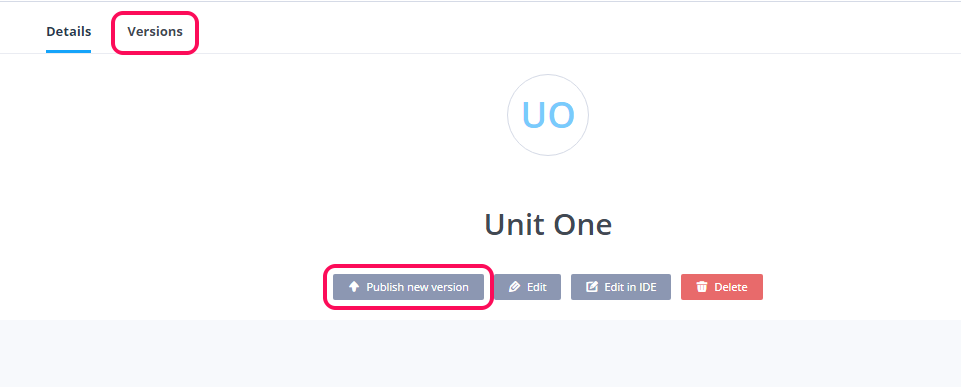
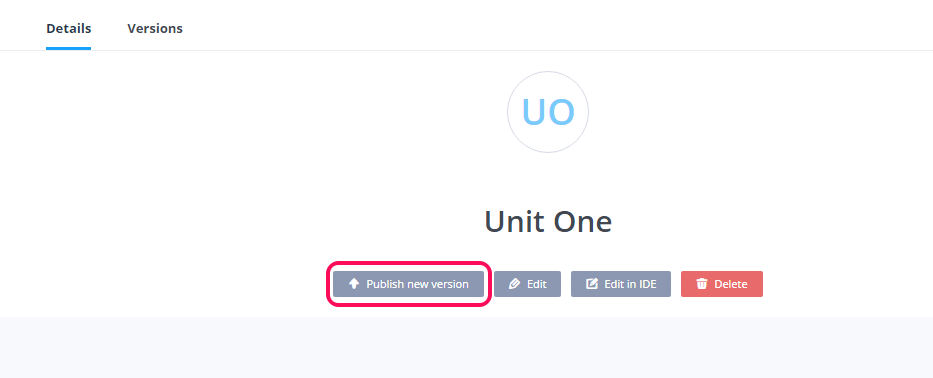
update versions

diff --git a/source/docs/content/publish/unit-add.html.md b/source/docs/content/publish/unit-add.html.md
@@ -45,6 +45,16 @@ You can publish in the following ways
 
 <img alt="versions" src="/img/docs/versions.png" class="simple"/>
 
+### Versions
+
+The versions tab will show details of:
+
+- date/time when the unit was published,
+- name of the person who published the unit,
+- the name and version of the stack assigned to the unit.
+
+<img alt="versions" src="/img/docs/versiondetails.png" class="simple"/>
+
 ### Editing units
 
 Editing unit content is always done from the unit itself. This applies to the unit content, done in the IDE, and the unit properties.
